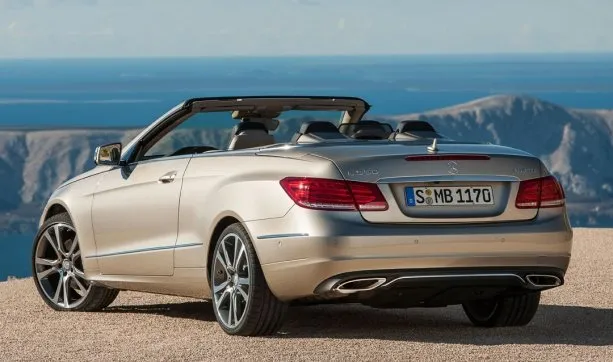
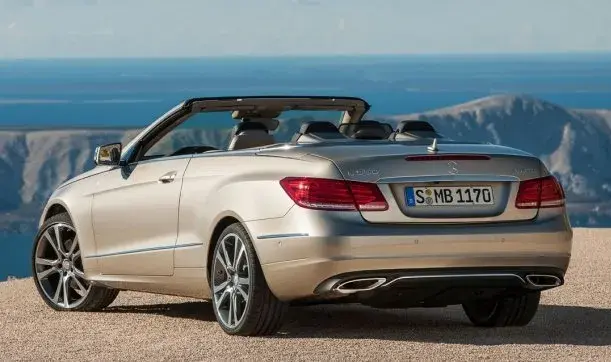
246

diff --git a/pic/ja_mb_img_ce.html b/pic/ja_mb_img_ce.html
@@ -498,7 +498,7 @@
 						<h5 class="i">フェイスリフト</h5>
 						<p class="i m1">05/2013</p><br>
 						<a href="full/ce/a207_f2.jpg"><img loading="lazy" src="style/ce/a207_f2.webp" alt="メルセデス,A207,Eクラス,カブリオレ,フロント" width="594" height="362"></a>
-						<a href="full/ce/a207_r2.jpg"><img loading="lazy" src="style/ce/a207_r2.webp" alt="メルセデス,A207,Eクラス,カブリオレ,リヤ" width="613" height="362"></a>
+						<a href="full/ce/a207_r2.jpg"><img loading="lazy" src="style/ce/a207_r2.webp" alt="メルセデス,A207,Eクラス,カブリオレ,リヤ" width="611" height="362"></a>
 					</section>
 				</div>
 			</div>

diff --git a/pic/mb_img_ce.html b/pic/mb_img_ce.html
@@ -498,7 +498,7 @@
 						<h5 class="i">Modellpflege</h5>
 						<p class="i m1">05/2013</p><br>
 						<a href="full/ce/a207_f2.jpg"><img loading="lazy" src="style/ce/a207_f2.webp" alt="Mercedes,A207,E-klasse cabriolet,Vorderansicht" width="594" height="362"></a>
-						<a href="full/ce/a207_r2.jpg"><img loading="lazy" src="style/ce/a207_r2.webp" alt="Mercedes,A207,E-klasse cabriolet,Rückansicht" width="613" height="362"></a>
+						<a href="full/ce/a207_r2.jpg"><img loading="lazy" src="style/ce/a207_r2.webp" alt="Mercedes,A207,E-klasse cabriolet,Rückansicht" width="611" height="362"></a>
 					</section>
 				</div>
 			</div>

diff --git a/pic/en_mb_img_ce.html b/pic/en_mb_img_ce.html
@@ -498,7 +498,7 @@
 						<h5 class="i">Facelift</h5>
 						<p class="i m1">05/2013</p><br>
 						<a href="full/ce/a207_f2.jpg"><img loading="lazy" src="style/ce/a207_f2.webp" alt="Mercedes,A207,E-class cabriolet,Front view" width="594" height="362"></a>
-						<a href="full/ce/a207_r2.jpg"><img loading="lazy" src="style/ce/a207_r2.webp" alt="Mercedes,A207,E-class cabriolet,Rear view" width="613" height="362"></a>
+						<a href="full/ce/a207_r2.jpg"><img loading="lazy" src="style/ce/a207_r2.webp" alt="Mercedes,A207,E-class cabriolet,Rear view" width="611" height="362"></a>
 					</section>
 				</div>
 			</div>
